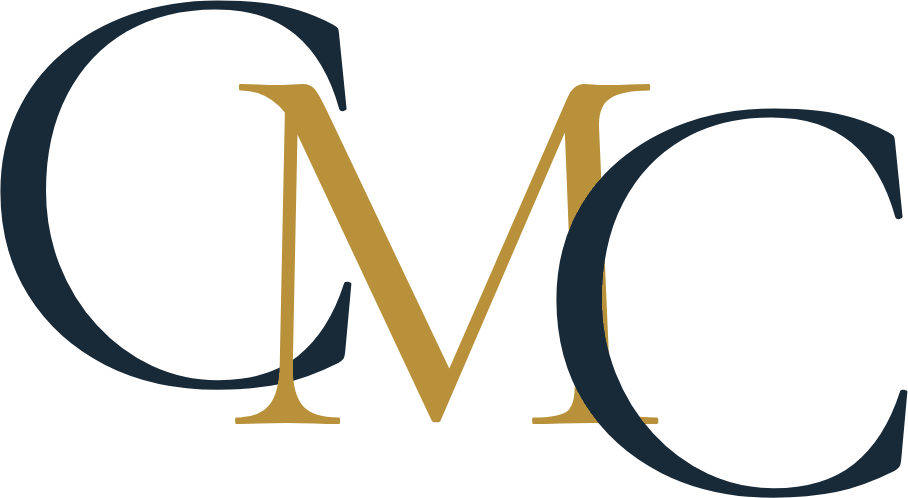
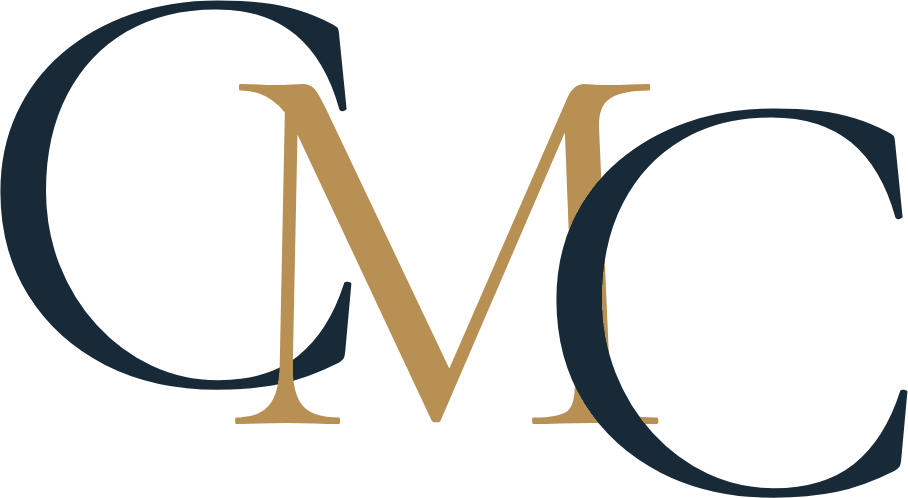
ajustes cliente final 3

diff --git a/styles.css b/styles.css
@@ -9,8 +9,8 @@
   --paper:#E8EBEE;
   --navy:#182A38;
   --navy-2:#20384A;
-  --gold:#A97F28;
-  --gold-l:#D9B45A;
+  --gold:#A8824A;
+  --gold-l:#CDAA74;
   --ink:#1E2A33;
   --muted:#5D646B;
   --line:rgba(24,42,56,.12);
@@ -35,7 +35,7 @@ h1,h2,h3{font-family:var(--serif);font-weight:500;line-height:1.08;color:var(--n
 .eyebrow{font-size:.76rem;font-weight:600;letter-spacing:.3em;text-transform:uppercase;color:var(--gold);margin-bottom:1rem}
 .eyebrow-light{color:var(--gold-l)}
 .h2{font-size:clamp(2.5rem,4.8vw,3.7rem);letter-spacing:-.005em}
-.h2 em{font-style:italic;font-weight:400;color:var(--gold);background:linear-gradient(100deg,#9A7322 0%,#B08A2E 48%,#B8913A 52%,#9A7322 100%);-webkit-background-clip:text;background-clip:text;-webkit-text-fill-color:transparent}
+.h2 em{font-style:italic;font-weight:400;color:var(--gold);background:linear-gradient(100deg,#9E7A45 0%,#B08B52 48%,#B89054 52%,#9E7A45 100%);-webkit-background-clip:text;background-clip:text;-webkit-text-fill-color:transparent}
 .lead{font-size:1.08rem;color:var(--muted)}
 .sec-head{text-align:center;max-width:46rem;margin:0 auto 3.6rem}
 
@@ -194,6 +194,18 @@ body.nav-open .mnav-ov{opacity:1;visibility:visible}
 .field .opt{font-weight:500;color:#444C54}
 
 /* ---------- footer ---------- */
+/* Cierre: hero final como el banner de la clienta */
+.cierre{position:relative;overflow:hidden;padding:110px 0 120px;text-align:center;border-bottom:2px solid var(--gold)}
+.cierre-bg{position:absolute;inset:0;background:#EFE8E1 url('./img/hero.jpg') 22% center/cover no-repeat}
+.cierre-bg::after{content:"";position:absolute;inset:0;background:radial-gradient(ellipse 46% 70% at 50% 50%,rgba(255,255,255,.78) 0%,rgba(255,255,255,.45) 55%,rgba(255,255,255,.1) 100%)}
+.cierre-in{position:relative;z-index:1;display:flex;flex-direction:column;align-items:center;max-width:640px;margin:0 auto;padding:0 1.5rem}
+.cierre-mark{width:clamp(150px,15vw,200px);margin-bottom:1.1rem}
+.cierre-kicker{font-family:var(--serif);font-weight:600;font-size:1.05rem;letter-spacing:.38em;padding-left:.38em;text-transform:uppercase;color:var(--navy)}
+.cierre .rule{margin:.9rem 0}
+.cierre-name{font-family:var(--serif);font-weight:500;font-size:clamp(2rem,3.4vw,2.8rem);line-height:1.1;color:var(--navy)}
+.cierre-tag{margin-top:.4rem;font-family:var(--serif);font-style:italic;font-size:clamp(1.25rem,1.8vw,1.5rem);color:var(--navy)}
+.cierre-h2{margin-top:2.4rem;font-family:var(--serif);font-style:italic;font-weight:500;font-size:clamp(1.5rem,2.2vw,1.85rem);color:var(--navy)}
+.cierre-txt{max-width:440px;margin-bottom:2rem;font-size:.97rem;color:var(--ink)}
 .ftr{background:var(--navy-3);color:rgba(255,255,255,.66);font-size:.92rem}
 .ftr-in{max-width:1200px;margin:0 auto;padding:5rem 2rem 3.6rem;display:grid;grid-template-columns:1.4fr 1fr 1fr 1.2fr;gap:3rem}
 .ftr-brand img{width:120px;margin-bottom:1.4rem}
@@ -287,6 +299,10 @@ body.nav-open .mnav-ov{opacity:1;visibility:visible}
   .timeline p{margin:0 auto}
   .p-cta{margin-left:0}
   .contacto{padding:76px 0}
+  .cierre{padding:76px 0 84px}
+  .cierre-bg{background-position:10% center}
+  .cierre-bg::after{background:rgba(255,255,255,.72)}
+  .cierre-kicker{font-size:.9rem;letter-spacing:.28em;padding-left:.28em}
   .estudio-copy{text-align:center}
   .estudio-txt{margin-left:auto;margin-right:auto}
   .pilares{margin:0 auto;padding:1.2rem 0 0;border-left:0;border-top:2px solid var(--gold)}

diff --git a/index.html b/index.html
@@ -214,6 +214,22 @@
 </main>
 
 <!-- ============ FOOTER ============ -->
+<!-- ============ CIERRE (pedido de la clienta, como su banner) ============ -->
+<section class="cierre" id="cierre">
+  <div class="cierre-bg" aria-hidden="true"></div>
+  <div class="cierre-in reveal">
+    <img src="./monograma.png" alt="" class="cierre-mark" width="908" height="498" loading="lazy">
+    <p class="cierre-kicker">Estudio Jurídico</p>
+    <span class="rule" aria-hidden="true"></span>
+    <p class="cierre-name">Dra. Cecilia Marisa Casella</p>
+    <p class="cierre-tag">Tu derecho, nuestra prioridad.</p>
+    <h2 class="cierre-h2">Gracias por visitarnos.</h2>
+    <span class="rule" aria-hidden="true"></span>
+    <p class="cierre-txt">Si necesitás asesoramiento jurídico o tenés alguna consulta, no dudes en contactarnos.</p>
+    <a class="btn btn-navy js-wa" href="#" data-msg="Hola, quisiera hacer una consulta.">Escribinos por WhatsApp</a>
+  </div>
+</section>
+
 <footer class="ftr" id="ftr">
   <div class="ftr-in">
     <div class="ftr-brand">

diff --git a/main.js b/main.js
@@ -76,6 +76,7 @@
     });
     fio.observe(document.getElementById("contacto"));
     fio.observe(document.getElementById("ftr"));
+    fio.observe(document.getElementById("cierre"));
   }
 
   /* ---------- formulario: se envía por email (FormSubmit) o por WhatsApp ---------- */
